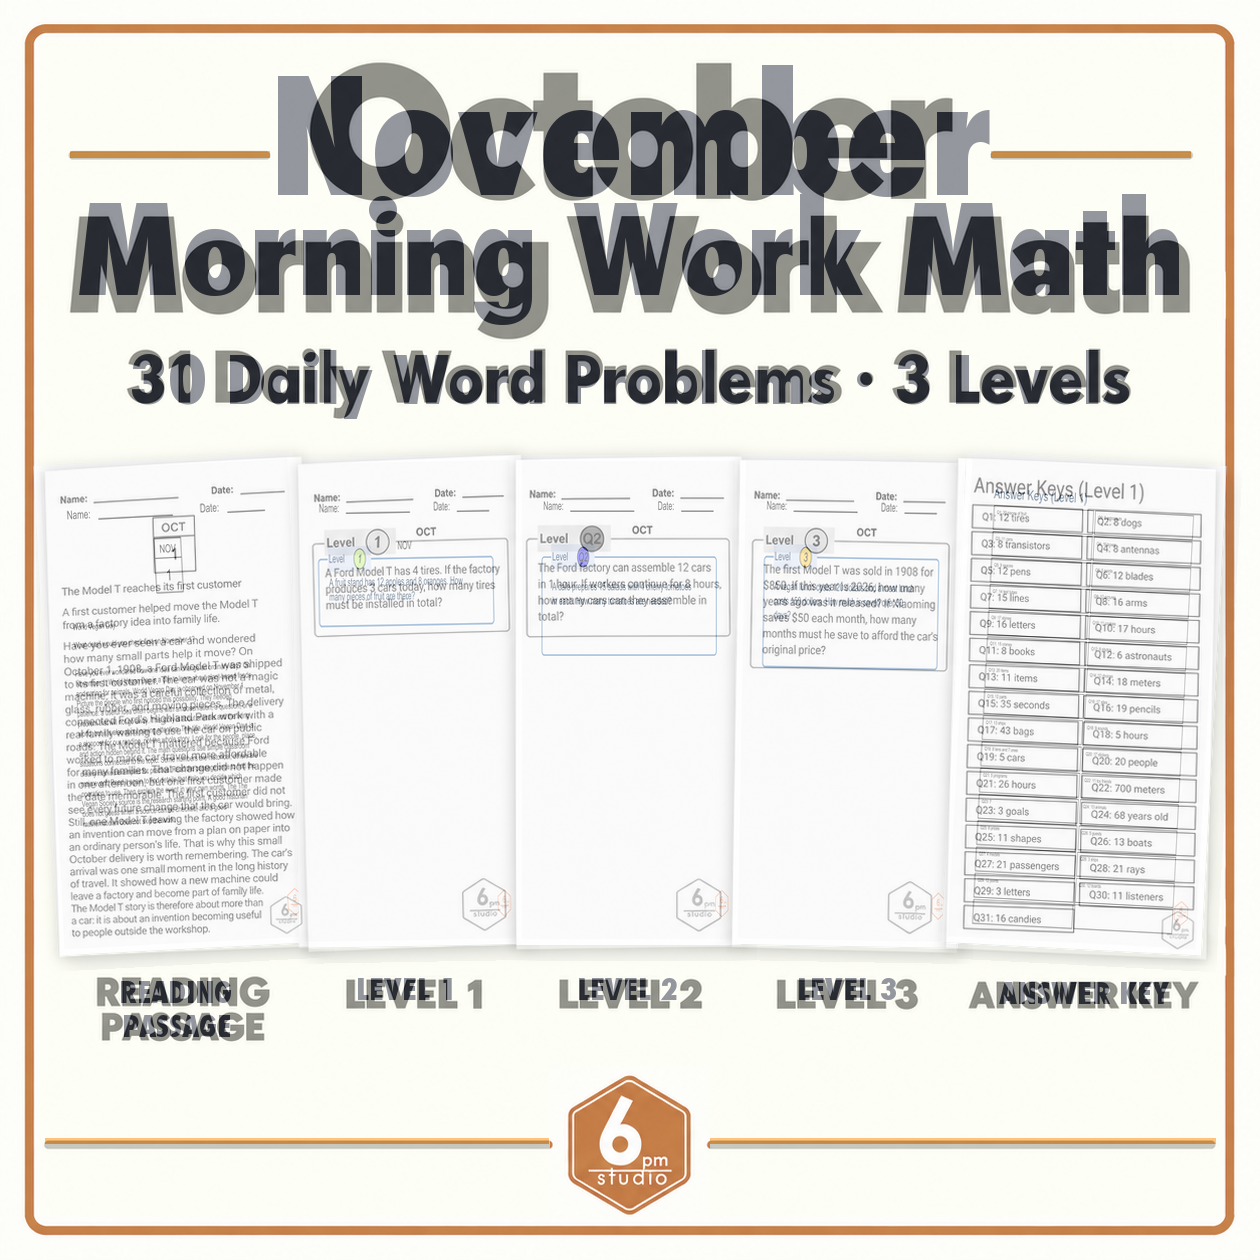
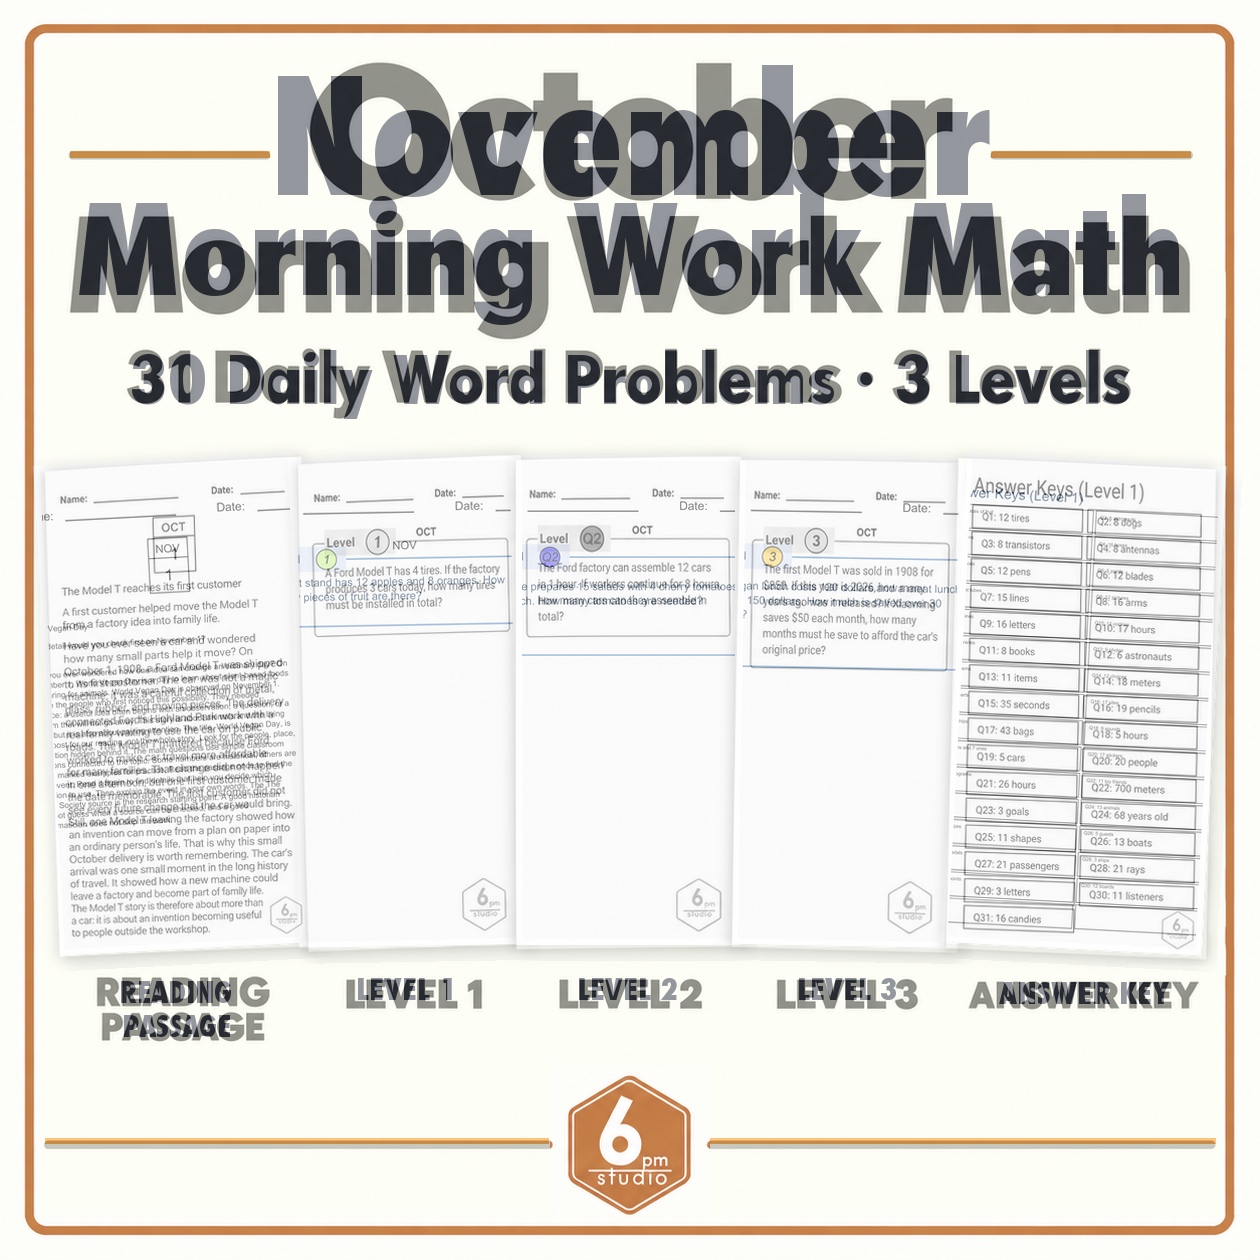
Preserve worksheet screenshot aspect ratios

diff --git a/scripts/generate_monthly_thumbnails.py b/scripts/generate_monthly_thumbnails.py
@@ -197,6 +197,21 @@ def pill(draw, box, text, size=34):
     draw.text((x + w // 2, y + 9), text, anchor="ma", fill="white", font=fitted(text, w - 24, size))
 
 
+def fit_page_preserving_aspect(source, target_size):
+    """Fill a card window without distorting the worksheet screenshot.
+
+    The fixed landing-page cards are intentionally narrower than a full PDF
+    page. Scale proportionally, then crop the overflow from the centered
+    edges; never stretch the source page to the target dimensions.
+    """
+    return ImageOps.fit(
+        source,
+        target_size,
+        method=Image.Resampling.LANCZOS,
+        centering=(0.5, 0.5),
+    )
+
+
 def card(canvas, page, box, label, label_style="pill", label_width=None, outline=True, fit_mode="contain"):
     x, y, w, h = box
     shadow = Image.new("RGBA", canvas.size, (0, 0, 0, 0))
@@ -205,10 +220,9 @@ def card(canvas, page, box, label, label_style="pill", label_width=None, outline
     source = Image.open(page).convert("RGB")
     target_size = (w - 12, h - 12)
     if fit_mode == "cover":
-        # The canonical landing fixture maps the complete worksheet page into
-        # the fixed portrait card window. Preserve the real page and logo,
-        # while avoiding the false top/bottom bars produced by contain.
-        fitted_image = source.resize(target_size, Image.Resampling.LANCZOS)
+        # Fill the fixed card window while preserving the worksheet's aspect
+        # ratio; crop only the centered overflow instead of stretching it.
+        fitted_image = fit_page_preserving_aspect(source, target_size)
     else:
         fitted_image = ImageOps.contain(source, target_size, method=Image.Resampling.LANCZOS)
     sheet = Image.new("RGB", (w, h), "white")
